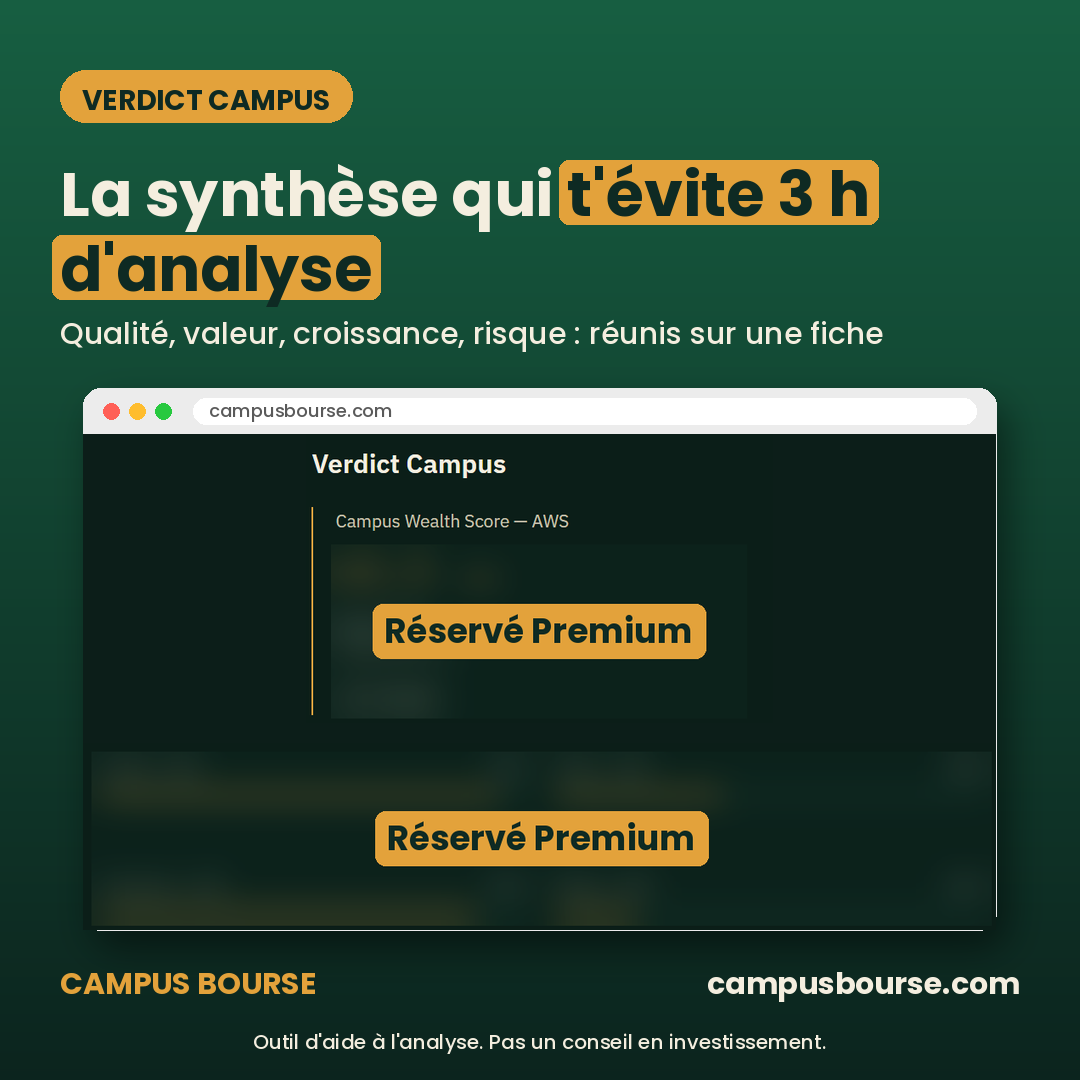
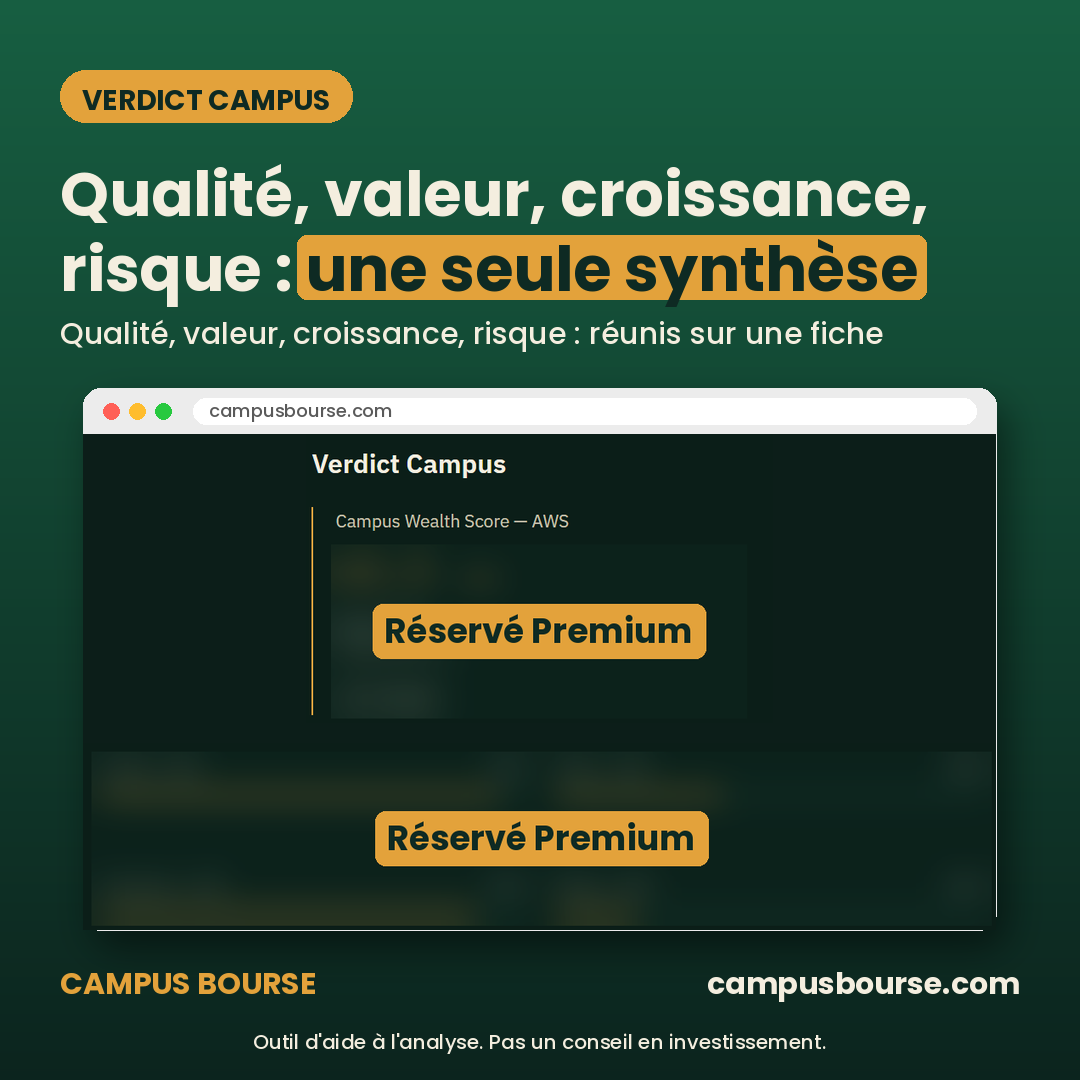
Visuels choc : simples, concis, pro
Claude-Session: https://claude.ai/code/session_01WJsfPaBXK3SYATQ7sGtRQt

Changed region(s): [[0.0306, 0.1222, 0.8556, 0.3056]]

diff --git a/outils/visuel_choc.py b/outils/visuel_choc.py
@@ -1,0 +1,130 @@
+"""Visuel « choc » Campus Bourse : simple, concis, pro. 1 message + 1 preuve réelle zoomée + 1 bouton.
+Usage : python3 -I outils/visuel_choc.py <choc.json> <dossier_sortie>
+choc.json = liste de {
+  "nom": "c01_alerte",
+  "kicker": "MON PORTEFEUILLE",                 # petit sur-titre
+  "titre": "Trop de *banques* dans ton portefeuille ?",   # ≤ 7 mots, *mot* = or
+  "texte": "Campus Bourse te prévient au-delà de 35 % sur un secteur.",  # 1 phrase max
+  "source": "campus-bourse/captures/sources/xxx.png", "crop": [x0,y0,x1,y1],   # capture RÉELLE, zoom serré
+  "masquer": [[x0,y0,x1,y1]],                   # optionnel, coordonnées source
+  "puces": ["Filtrer", "Comparer", ...]         # optionnel, si pas de capture (visuel texte)
+  "cta": "Commence gratuitement"
+}
+Sorties : <nom>_fb.png 1080x1350, <nom>_tt.jpg 1080x1920, <nom>_carre.png 1080x1080
+"""
+import json, os, sys
+from PIL import Image, ImageDraw, ImageFont, ImageFilter
+HERE = os.path.dirname(os.path.abspath(__file__))
+def _f(n):
+    for d in (os.path.join(HERE, "fonts"), "/usr/share/fonts/truetype/google-fonts"):
+        p = os.path.join(d, n)
+        if os.path.exists(p): return p
+    return "/usr/share/fonts/truetype/dejavu/DejaVuSans-Bold.ttf"
+B, M, X = _f("Poppins-Bold.ttf"), _f("Poppins-Medium.ttf"), _f("Poppins-ExtraBold.ttf")
+X = B
+F = lambda p, s: ImageFont.truetype(p, s)
+NUIT, FORET, EMER, OR, IVOIRE = (7, 24, 19), (12, 38, 31), (31, 138, 91), (232, 168, 62), (246, 241, 228)
+
+def shot(c):
+    im = Image.open(c["source"]).convert("RGB")
+    for x0, y0, x1, y1 in c.get("masquer", []):
+        r = im.crop((x0, y0, x1, y1)).filter(ImageFilter.GaussianBlur(16))
+        im.paste(Image.blend(r, Image.new("RGB", r.size, FORET), .4), (x0, y0))
+        d = ImageDraw.Draw(im); fs = max(14, min(30, (y1 - y0) // 2))
+        lab = "🔒" if False else "Premium"; f = F(B, fs); w = d.textlength(lab, font=f)
+        cx, cy = (x0 + x1) // 2, (y0 + y1) // 2
+        d.rounded_rectangle((cx - w/2 - 12, cy - fs*.75, cx + w/2 + 12, cy + fs*.75), 10, fill=OR)
+        d.text((cx, cy), lab, font=f, fill=FORET, anchor="mm")
+    return im.crop(tuple(c["crop"])) if c.get("crop") else im
+
+def wrap(d, t, f, mw):
+    L, cur = [], []
+    for w in t.split(" "):
+        if cur and d.textlength(" ".join(cur + [w]).replace("*", ""), font=f) > mw: L.append(cur); cur = [w]
+        else: cur.append(w)
+    return L + [cur]
+
+def render(c, W, H, out):
+    import numpy as np
+    xx, yy = np.meshgrid(np.arange(W), np.arange(H))
+    g = np.clip(1 - np.hypot((xx - W*.85)/W, (yy - H*.05)/H) * 1.6, 0, 1)[..., None] * .55
+    arr = np.array(NUIT) + (np.array(EMER) - np.array(NUIT)) * g
+    bg = Image.fromarray(arr.astype("uint8"), "RGB")
+    d = ImageDraw.Draw(bg, "RGBA"); m = 72
+    # marque
+    for i in range(4):
+        d.rectangle((m + i*12, 86 - i*8, m + i*12 + 8, 96), fill=OR)
+    d.text((m + 60, 91), "CAMPUS BOURSE", font=F(B, 26), fill=IVOIRE, anchor="lm")
+    y = 160 if H > W else 140
+    if c.get("kicker"):
+        d.text((m, y), c["kicker"].upper(), font=F(B, 26), fill=OR); y += 52
+    fs = 92 if H >= 1350 else 78
+    fT = F(X, fs); hl = False
+    for ln in wrap(d, c["titre"], fT, W - 2*m):
+        x = m
+        for w in ln:
+            if w.startswith("*"): hl = True
+            end = w.rstrip(".!?,:;»").endswith("*"); t = w.replace("*", "")
+            d.text((x, y), t, font=fT, fill=OR if hl else IVOIRE)
+            x += d.textlength(t + " ", font=fT)
+            if end: hl = False
+        y += int(fs * 1.12)
+    if c.get("texte"):
+        y += 26
+        for ln in wrap(d, c["texte"], F(M, 34), W - 2*m):
+            d.text((m, y), " ".join(ln), font=F(M, 34), fill=(246, 241, 228, 215)); y += 46
+    foot = 230
+    top, bot = y + 50, H - foot - 30
+    st = c.get("stats", [])
+    if c.get("source"):
+        s = shot(c); mw = W - 2*m + 30
+        mh = (bot - top) - (240 if st else 0)
+        k = min(mw / s.width, mh / s.height); sw, sh = int(s.width*k), int(s.height*k)
+        sx = (W - sw)//2
+        sy = top + ((bot - top) - (sh + (240 if st else 0)))//2
+        sl = Image.new("RGBA", (W, H)); ImageDraw.Draw(sl).rounded_rectangle((sx-6, sy+20, sx+sw+6, sy+sh+34), 28, fill=(0,0,0,170))
+        sl = sl.filter(ImageFilter.GaussianBlur(26)); bg.paste(sl, (0, 0), sl)
+        d = ImageDraw.Draw(bg, "RGBA")
+        msk = Image.new("L", (sw, sh), 0); ImageDraw.Draw(msk).rounded_rectangle((0, 0, sw, sh), 24, fill=255)
+        bg.paste(s.resize((sw, sh), Image.LANCZOS), (sx, sy), msk)
+        d.rounded_rectangle((sx, sy, sx+sw, sy+sh), 24, outline=OR, width=3)
+        if st:
+            n = len(st); g = 20; tw = (W - 2*m - g*(n-1)) / n; ty = sy + sh + 40
+            for i, t in enumerate(st):
+                x0 = m + i*(tw + g)
+                d.rounded_rectangle((x0, ty, x0 + tw, ty + 200), 26, fill=(255,255,255,16), outline=(232,168,62,120), width=2)
+                col = {"rouge": (240, 96, 84), "vert": (60, 200, 130)}.get(t.get("couleur"), OR)
+                fv = 72 if n <= 2 else (60 if n == 3 else 48)
+                while d.textlength(t["v"], font=F(B, fv)) > tw - 30: fv -= 4
+                d.text((x0 + tw/2, ty + 82), t["v"], font=F(B, fv), fill=col, anchor="mm")
+                fl = F(M, 24 if n <= 3 else 21)
+                lines = wrap(d, t["l"], fl, tw - 24)
+                for j, ln in enumerate(lines[:2]):
+                    d.text((x0 + tw/2, ty + 145 + j*28), " ".join(ln), font=fl, fill=(246,241,228,200), anchor="mm")
+    elif c.get("puces"):
+        n = len(c["puces"]); fb = F(B, 46); gap = 22
+        bh = min(120, (bot - top - gap*(n-1)) // n); yy = top + ((bot - top) - (bh*n + gap*(n-1)))//2
+        for i, p in enumerate(c["puces"]):
+            d.rounded_rectangle((m, yy, W - m, yy + bh), 26, fill=(255, 255, 255, 18), outline=(232,168,62,140), width=2)
+            d.ellipse((m + 28, yy + bh//2 - 30, m + 88, yy + bh//2 + 30), fill=OR)
+            d.text((m + 58, yy + bh//2), str(i+1), font=F(X, 34), fill=FORET, anchor="mm")
+            d.text((m + 120, yy + bh//2), p, font=fb, fill=IVOIRE, anchor="lm"); yy += bh + gap
+    # CTA
+    fc = F(B, 36); cta = c.get("cta", "Commence gratuitement"); cw = d.textlength(cta, font=fc) + 46
+    cy = H - foot + 20
+    d.rounded_rectangle((m, cy, m + cw + 70, cy + 84), 42, fill=OR)
+    d.text((m + 35, cy + 42), cta, font=fc, fill=FORET, anchor="lm")
+    ax = m + 35 + d.textlength(cta, font=fc) + 22
+    d.line((ax, cy + 42, ax + 26, cy + 42), fill=FORET, width=5)
+    d.polygon([(ax + 30, cy + 42), (ax + 16, cy + 31), (ax + 16, cy + 53)], fill=FORET)
+    d.text((W - m, cy + 42), "campusbourse.com", font=F(B, 32), fill=IVOIRE, anchor="rm")
+    d.text((m, H - 62), "Outil d'aide à l'analyse. Pas un conseil en investissement.", font=F(M, 22), fill=(246, 241, 228, 150))
+    bg.save(out, quality=93) if out.endswith(".jpg") else bg.save(out, optimize=True)
+
+if __name__ == "__main__":
+    L = json.load(open(sys.argv[1], encoding="utf-8")); od = sys.argv[2]
+    for c in L:
+        dd = os.path.join(od, c["nom"]); os.makedirs(dd, exist_ok=True)
+        for W, H, suf in ((1080, 1350, "_fb.png"), (1080, 1920, "_tt.jpg"), (1080, 1080, "_carre.png")):
+            render(c, W, H, os.path.join(dd, c["nom"] + suf))
+        print("ok", c["nom"])

diff --git a/campus-bourse/programme.md b/campus-bourse/programme.md
@@ -14,6 +14,13 @@ Le 19 nov 2026, l'utilisateur a ARRÊTÉ tout le contenu Campus des Bâtisseurs 
 
 **PUBLICATION VIA BUFFER depuis le 22 nov 2026** (procédure : outils/buffer.md). Metricool n'est plus utilisé. X est maintenant publié automatiquement via Buffer ; WhatsApp reste manuel. Premier commentaire LinkedIn impossible sur le forfait gratuit Buffer : il est envoyé à l'utilisateur pour qu'il le poste à la main.
 
+## VISUELS « CHOC » (25 nov, PRIORITÉ VISUELLE)
+Style par défaut des 1res diapos et des visuels uniques : simple, concis, pro. Outil : outils/visuel_choc.py (voir campus-bourse/choc/choc.json).
+Règles : 1 message (titre ≤ 7 mots, 1-2 mots en or), 1 phrase max, 1 preuve réelle zoomée (capture de captures/sources, cadrage serré,
+jamais de statut/note/prix max/projection/plus-value personnelle dans le cadre) ou 3-4 puces, chiffres-clés en grand recopiés EXACTEMENT
+de la capture, bouton « Commence gratuitement → » + campusbourse.com, mention légale. 8 visuels prêts dans campus-bourse/choc/.
+Nouveaux visuels choc : ajouter une entrée à choc.json, générer, vérifier visuellement, commit.
+
 ## VISUELS PREUVE PRODUIT DISPONIBLES (25 nov)
 12 visuels tirés de vraies captures du site sont prêts : lire campus-bourse/captures/rendus/INDEX.md.
 Utiliser chaque jour, quand le pilier correspond, UN de ces visuels comme 1re diapo (FB/LinkedIn : _fb.png ; TikTok : _tt.jpg),

diff --git a/campus-bourse/choc/INDEX.md b/campus-bourse/choc/INDEX.md
@@ -1,0 +1,12 @@
+# Visuels « choc » (25 nov 2026) — <nom>/<nom>_fb.png | _tt.jpg | _carre.png
+| Visuel | Message | Pilier conseillé |
+|---|---|---|
+| c01_alerte | Alerte concentration 35 % | Erreur qui coûte cher (sam.) |
+| c02_dividende | Dividende en 4 chiffres | Bilan hebdo & dividendes (ven.) |
+| c03_ratios | Sonatel : ROE, distribution, PER | Audit fondamental (jeu.) |
+| c04_comparer | Radar 2 sociétés | Duel de valeur (mar.) |
+| c05_trajectoire | 5 ans en un graphique | Audit fondamental (jeu.) |
+| c06_methode | Filtrer/Comparer/Valider/Protéger | Solution de la semaine (lun.) |
+| c07_promesse | Comprendre. Analyser. Décider. | Bilan mi-semaine (mer.) / 18h |
+| c08_secteurs | Secteurs créateurs de richesse | Bilan hebdo (ven.) |
+Rotation : pas le même avant 14 jours (journal.csv). Données des captures du 25 nov : citer « selon la fiche au 25 nov. » si le post date de plus d'une semaine.
